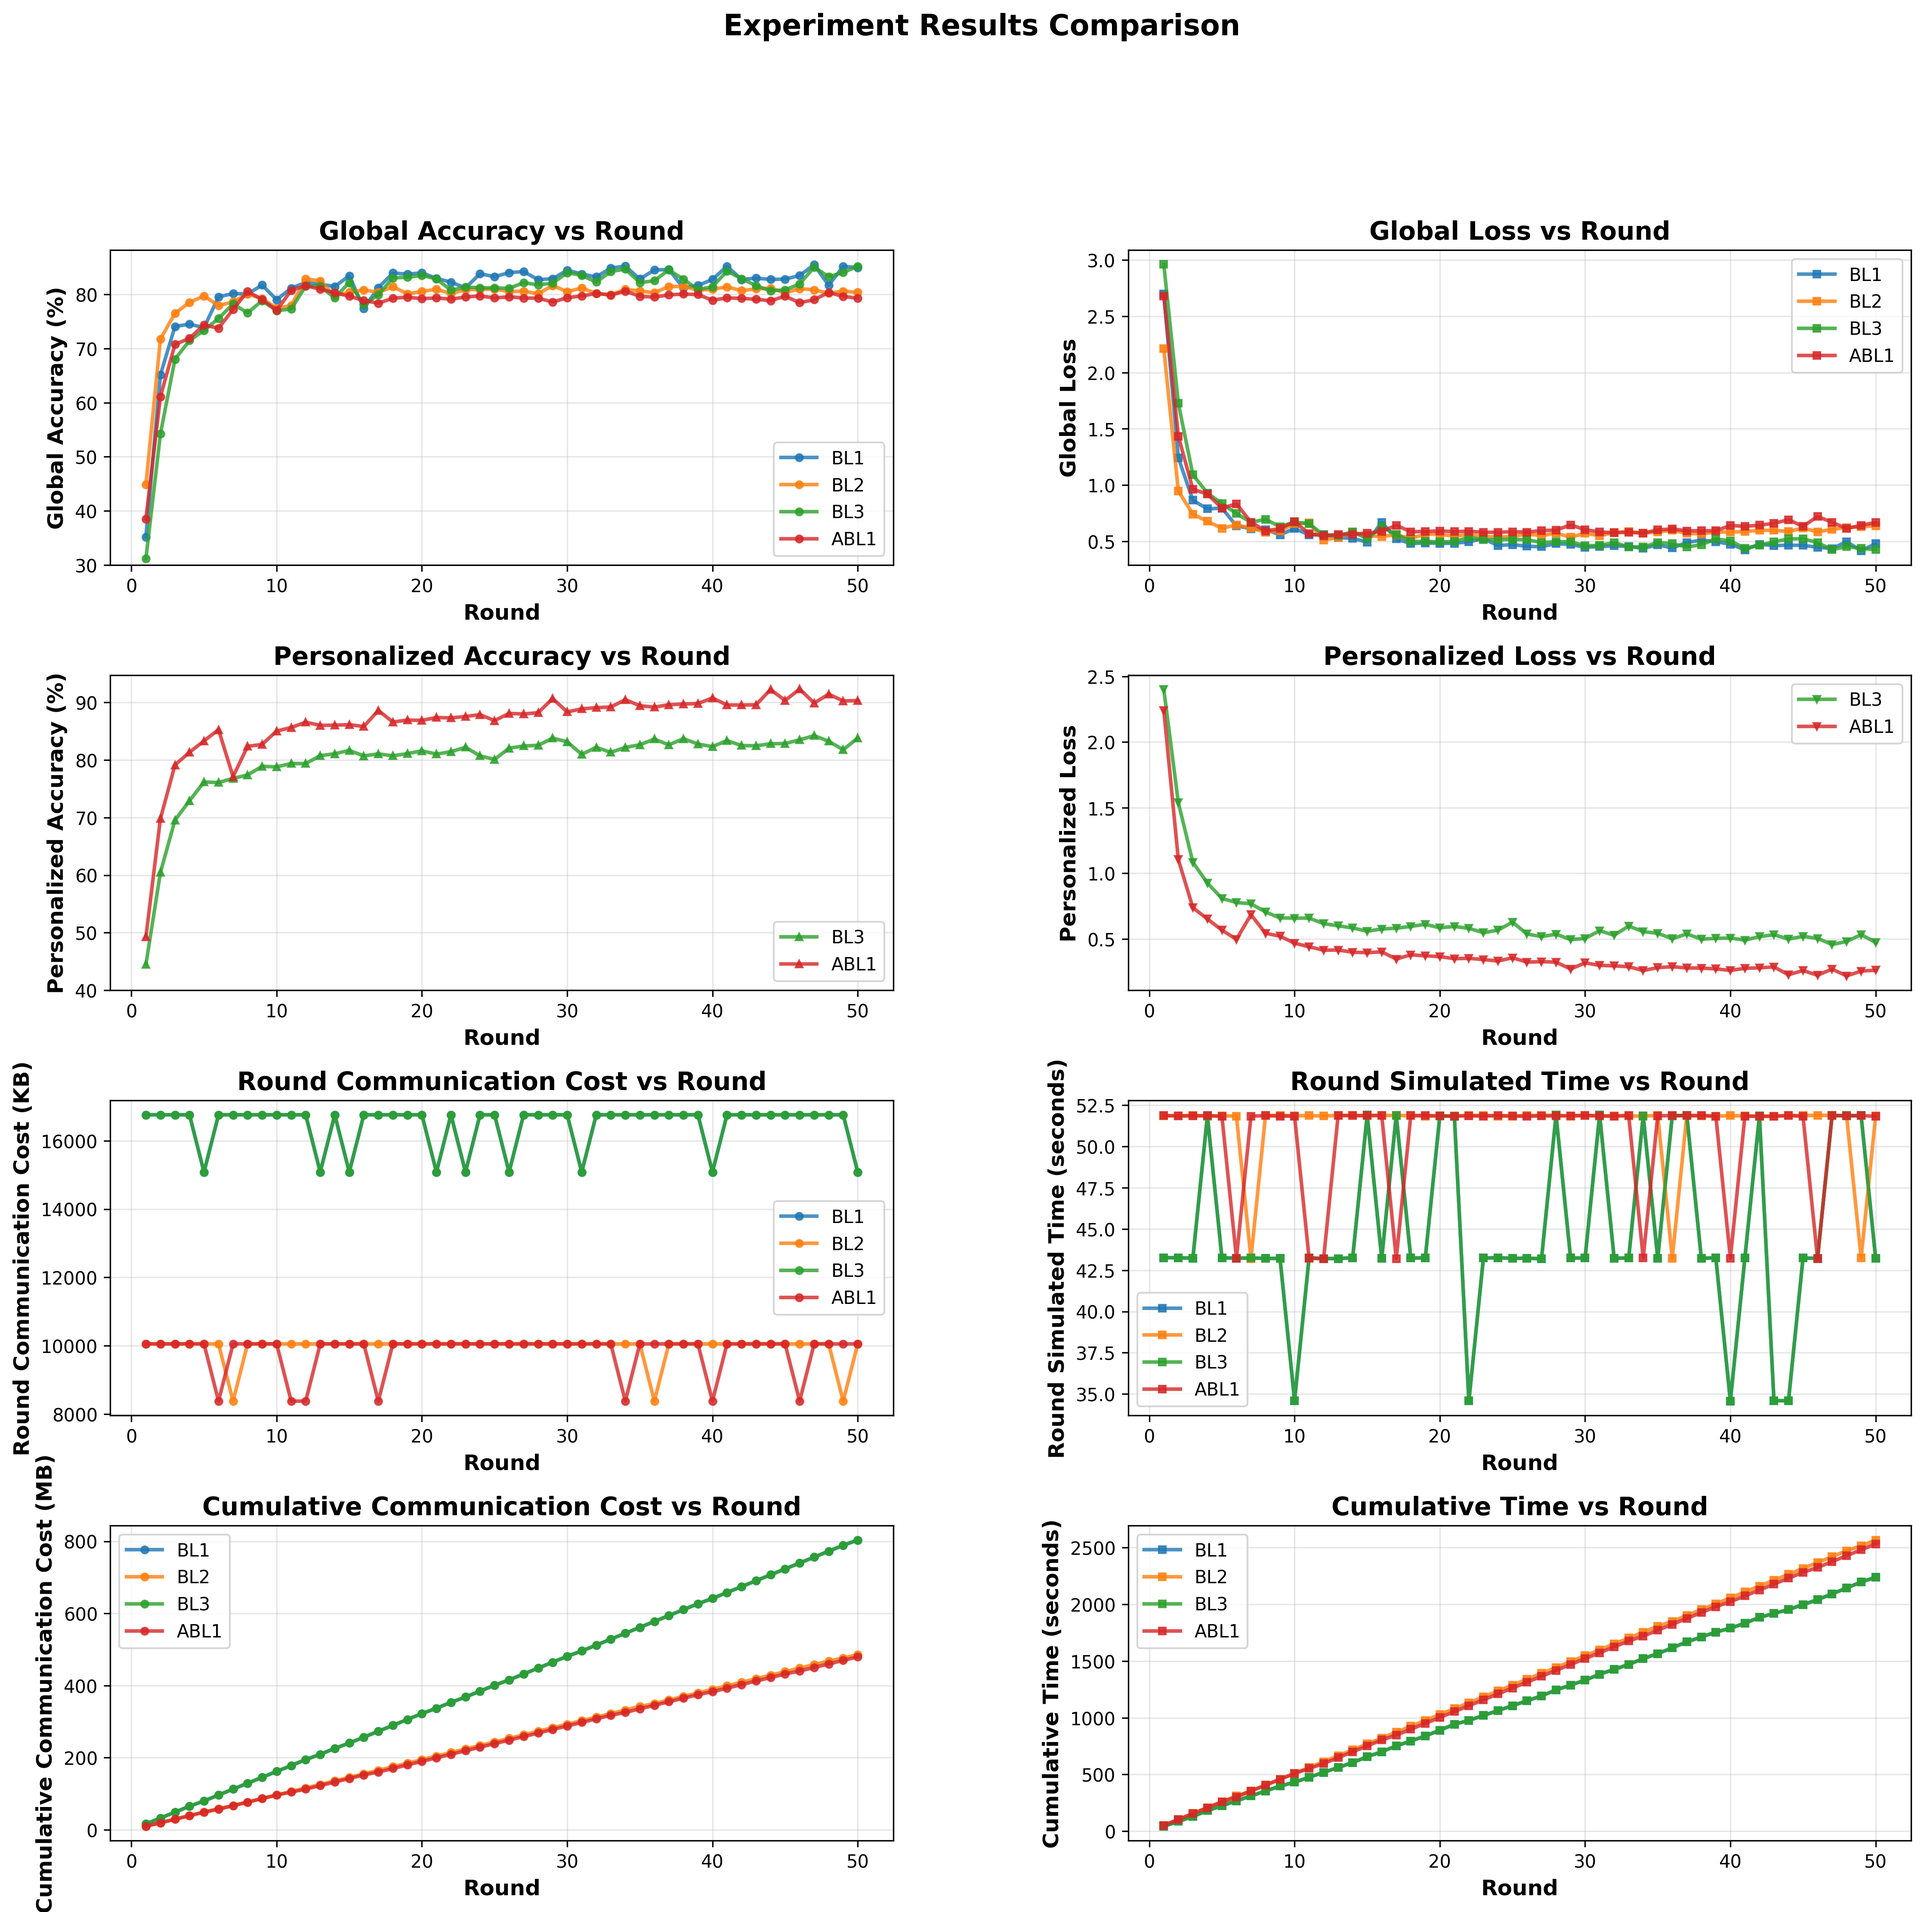
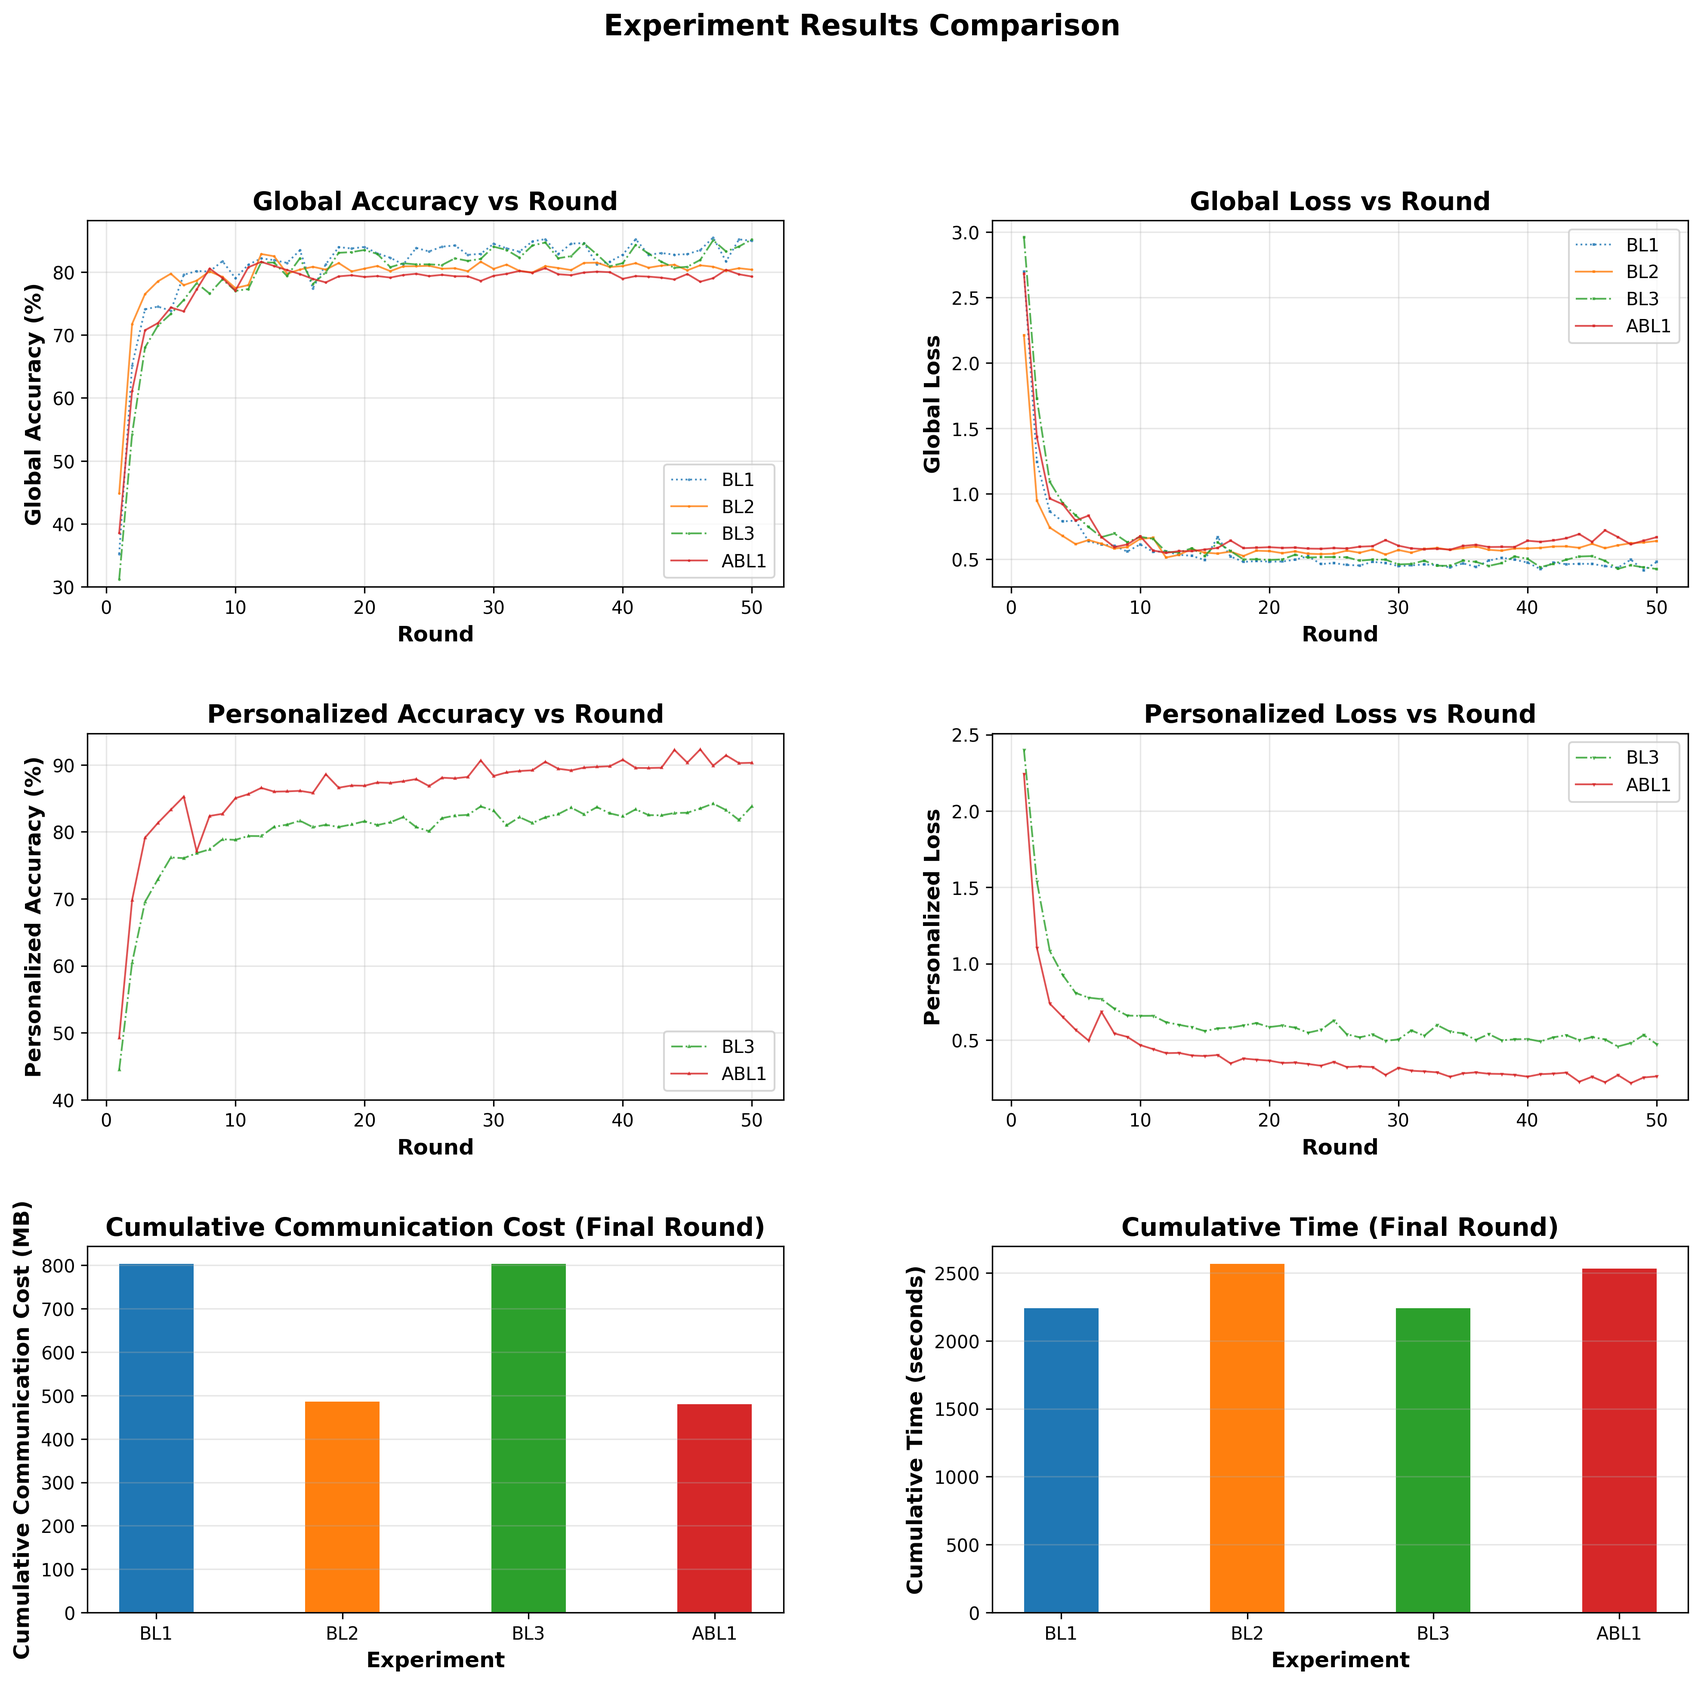
change cumulative to bar type

diff --git a/scripts/visualize_results.py b/scripts/visualize_results.py
@@ -176,8 +176,8 @@ def visualize_experiments(experiments: Dict[str, ExperimentData], output_path: O
     
     # Create figure with subplots
     if has_any_personalized:
-        fig = plt.figure(figsize=(18, 16))
-        gs = GridSpec(4, 2, figure=fig, hspace=0.35, wspace=0.3)
+        fig = plt.figure(figsize=(16, 14))
+        gs = GridSpec(3, 2, figure=fig, hspace=0.4, wspace=0.3)
     else:
         fig = plt.figure(figsize=(18, 12))
         gs = GridSpec(3, 2, figure=fig, hspace=0.35, wspace=0.3)
@@ -242,53 +242,66 @@ def visualize_experiments(experiments: Dict[str, ExperimentData], output_path: O
         ax4.grid(True, alpha=0.3)
         ax4.legend(loc='best', fontsize=10)
         
-        # 5. Round Communication Cost (per round)
-        ax5 = fig.add_subplot(gs[2, 0])
-        for exp_name, data in experiments.items():
-            style = styles.get(exp_name, {'color': '#000000', 'linestyle': 'solid'} )
-            ax5.plot(data.rounds, data.round_cost_kb, marker='o', label=exp_name.upper(), 
-                     alpha=0.8, **style)
-        ax5.set_xlabel('Round', fontsize=12, fontweight='bold')
-        ax5.set_ylabel('Round Communication Cost (KB)', fontsize=12, fontweight='bold')
-        ax5.set_title('Round Communication Cost vs Round', fontsize=14, fontweight='bold')
-        ax5.grid(True, alpha=0.3)
-        ax5.legend(loc='best', fontsize=10)
+        # # 5. Round Communication Cost (per round)
+        # ax5 = fig.add_subplot(gs[2, 0])
+        # for exp_name, data in experiments.items():
+        #     style = styles.get(exp_name, {'color': '#000000', 'linestyle': 'solid'} )
+        #     ax5.plot(data.rounds, data.round_cost_kb, marker='o', label=exp_name.upper(), 
+        #              alpha=0.8, **style)
+        # ax5.set_xlabel('Round', fontsize=12, fontweight='bold')
+        # ax5.set_ylabel('Round Communication Cost (KB)', fontsize=12, fontweight='bold')
+        # ax5.set_title('Round Communication Cost vs Round', fontsize=14, fontweight='bold')
+        # ax5.grid(True, alpha=0.3)
+        # ax5.legend(loc='best', fontsize=10)
         
-        # 6. Round Simulated Time (per round)
-        ax6 = fig.add_subplot(gs[2, 1])
-        for exp_name, data in experiments.items():
-            style = styles.get(exp_name, {'color': '#000000', 'linestyle': 'solid'} )
-            ax6.plot(data.rounds, data.round_time_s, marker='s', label=exp_name.upper(), 
-                     alpha=0.8, **style)
-        ax6.set_xlabel('Round', fontsize=12, fontweight='bold')
-        ax6.set_ylabel('Round Simulated Time (seconds)', fontsize=12, fontweight='bold')
-        ax6.set_title('Round Simulated Time vs Round', fontsize=14, fontweight='bold')
-        ax6.grid(True, alpha=0.3)
-        ax6.legend(loc='best', fontsize=10)
+        # # 6. Round Simulated Time (per round)
+        # ax6 = fig.add_subplot(gs[2, 1])
+        # for exp_name, data in experiments.items():
+        #     style = styles.get(exp_name, {'color': '#000000', 'linestyle': 'solid'} )
+        #     ax6.plot(data.rounds, data.round_time_s, marker='s', label=exp_name.upper(), 
+        #              alpha=0.8, **style)
+        # ax6.set_xlabel('Round', fontsize=12, fontweight='bold')
+        # ax6.set_ylabel('Round Simulated Time (seconds)', fontsize=12, fontweight='bold')
+        # ax6.set_title('Round Simulated Time vs Round', fontsize=14, fontweight='bold')
+        # ax6.grid(True, alpha=0.3)
+        # ax6.legend(loc='best', fontsize=10)
         
+        cumul_cost_values = []
+        cumul_time_values = []
+        bar_labels = []
+        bar_colors = []
+
+        exp_keys = list(experiments.keys())
+        for exp_name in exp_keys:
+            data = experiments[exp_name]
+            bar_labels.append(exp_name.upper())
+            bar_colors.append(styles.get(exp_name, {'color': '#000000'})['color'])
+            # Get last value, or 0 if list is empty
+            if data.cumulative_data_mb:
+                cumul_cost_values.append(data.cumulative_data_mb[-1])
+            else:
+                cumul_cost_values.append(0)
+                
+            if data.cumulative_time_s:
+                cumul_time_values.append(data.cumulative_time_s[-1])
+            else:
+                cumul_time_values.append(0)
+
         # 7. Cumulative Communication Cost
-        ax7 = fig.add_subplot(gs[3, 0])
-        for exp_name, data in experiments.items():
-            style = styles.get(exp_name, {'color': '#000000', 'linestyle': 'solid'} )
-            ax7.plot(data.rounds, data.cumulative_data_mb, marker='o', label=exp_name.upper(), 
-                     alpha=0.8, **style)
-        ax7.set_xlabel('Round', fontsize=12, fontweight='bold')
+        ax7 = fig.add_subplot(gs[2, 0])
+        ax7.bar(bar_labels, cumul_cost_values, color=bar_colors,width=0.4)
+        ax7.set_xlabel('Experiment', fontsize=12, fontweight='bold')
         ax7.set_ylabel('Cumulative Communication Cost (MB)', fontsize=12, fontweight='bold')
-        ax7.set_title('Cumulative Communication Cost vs Round', fontsize=14, fontweight='bold')
-        ax7.grid(True, alpha=0.3)
-        ax7.legend(loc='best', fontsize=10)
+        ax7.set_title('Cumulative Communication Cost (Final Round)', fontsize=14, fontweight='bold')
+        ax7.grid(True, alpha=0.3, axis='y') # Horizontal gridlines only
         
         # 8. Cumulative Time
-        ax8 = fig.add_subplot(gs[3, 1])
-        for exp_name, data in experiments.items():
-            style = styles.get(exp_name, {'color': '#000000', 'linestyle': 'solid'} )
-            ax8.plot(data.rounds, data.cumulative_time_s, marker='s', label=exp_name.upper(), 
-                     alpha=0.8, **style)
-        ax8.set_xlabel('Round', fontsize=12, fontweight='bold')
+        ax8 = fig.add_subplot(gs[2, 1])
+        ax8.bar(bar_labels, cumul_time_values, color=bar_colors, width=0.4)
+        ax8.set_xlabel('Experiment', fontsize=12, fontweight='bold')
         ax8.set_ylabel('Cumulative Time (seconds)', fontsize=12, fontweight='bold')
-        ax8.set_title('Cumulative Time vs Round', fontsize=14, fontweight='bold')
-        ax8.grid(True, alpha=0.3)
-        ax8.legend(loc='best', fontsize=10)
+        ax8.set_title('Cumulative Time (Final Round)', fontsize=14, fontweight='bold')
+        ax8.grid(True, alpha=0.3, axis='y') # Horizontal gridlines only
     else:
         # Without personalized metrics, use 3x2 layout
         # 3. Round Communication Cost (per round)
